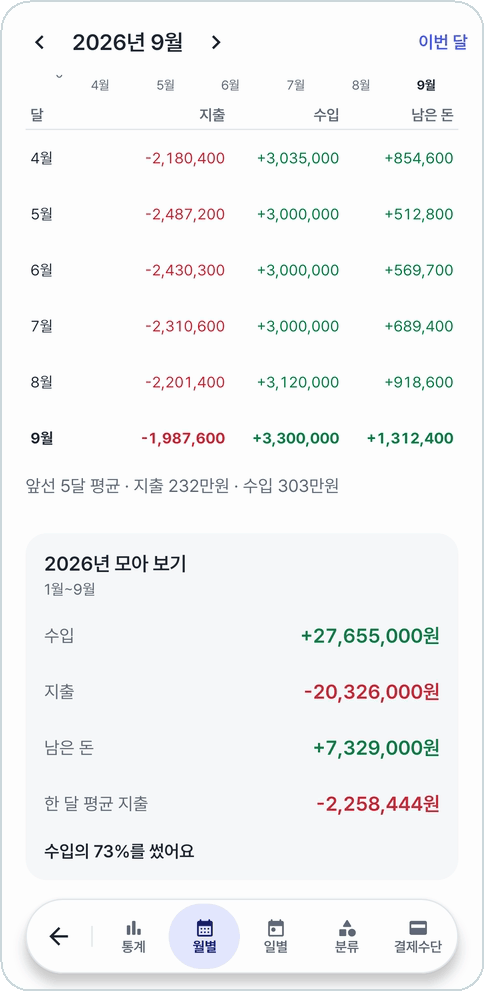
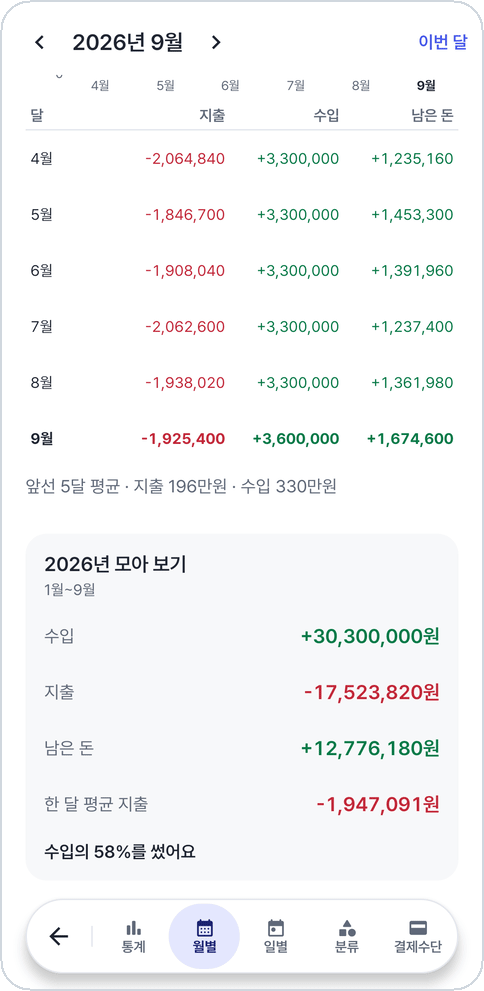
📝 통계 캡처 다시 찍기
옛 캡처는 9월 '카카오뱅크 적금 300,000원'을 지출로 세어 합계 · 분류
도넛 · 큰 지출 · 많이 쓴 곳 · 결제수단 · 요일별 평균이 모두 지금과 달랐음.
- stats · stats-2 · stats-dark: 저축 뺀 쓴 돈, 큰 지출
- stats-monthly · stats-monthly-2: 흐름 · 6개월 표 · 올해 모아 보기
- stats-daily · stats-daily-2: 저축 칩이 빠진 날마다 쓴 돈, 요일별 평균
- stats-category · stats-category-2 · stats-category-dark: 저축 없는
  도넛과 많이 쓴 곳
- stats-payment: 저축 뺀 계좌이체
- stats-detail · stats-detail-2: 식비 상세(지출의 % 가 바뀜, 아래쪽은
  위쪽과 같은 데이터로 맞춤)
- 통계 안내의 '눈에 띄는 점' 예를 새 캡처에 나온 문장으로 바꿈

diff --git a/docs/guide/statistics.md b/docs/guide/statistics.md
@@ -24,7 +24,7 @@
 - **쓴 돈**과 지난달(이맘때)보다 얼마 더·덜 썼는지
 - **수입과 지출**: 수입의 몇 %를 썼고 얼마 남았는지
 - **하루 기록**: 하루 평균, 돈을 쓴 날 평균, 가장 많이 쓴 날, 돈 안 쓴 날(가장 길게 이어진 날 수)
-- **눈에 띄는 점**: '지출의 42%를 고정지출에 썼어요', '평일에는 주말보다 하루 2.3배 더 써요' 같은 것. 누르면 그 자리로 간다
+- **눈에 띄는 점**: '지출의 42%를 고정지출에 썼어요', '지난달보다 교통/차량에 8만원 더 썼어요' 같은 것. 누르면 그 자리로 간다
 - **큰 지출**: 그 달 가장 큰 지출 순서
 
 ## 월별
